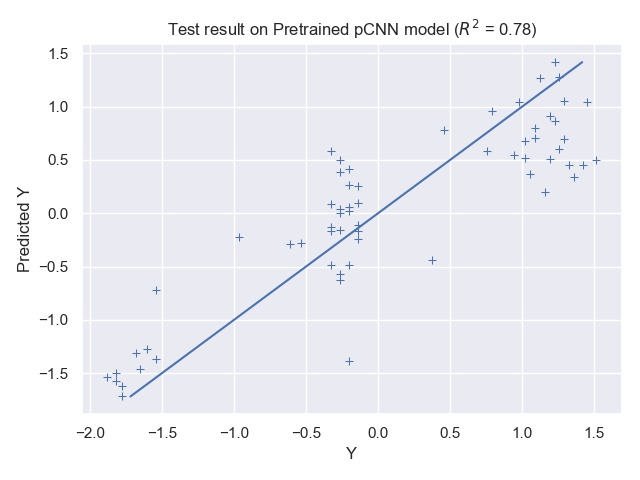
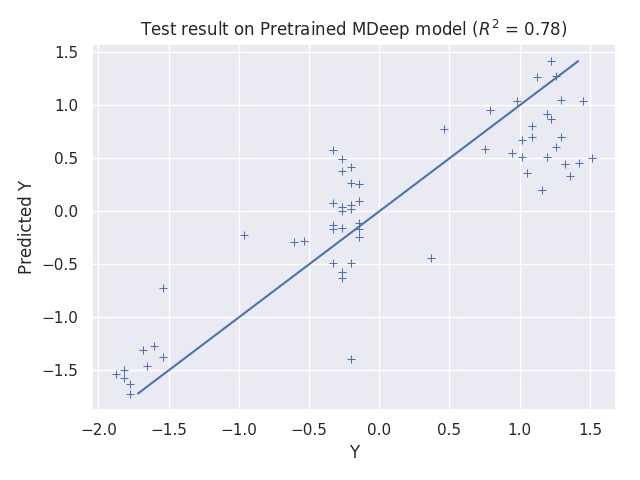
update MDeep and README

diff --git a/src/continous.py b/src/continous.py
@@ -107,7 +107,7 @@ def eval(x_test, y_test, args):
         plt.plot(x_line, x_line)
         plt.xlabel('Y')
         plt.ylabel(r'Predicted Y')
-        plt.title(r'Test result on Pretrained pCNN model ($R^2$ = {:.02f})'.format(cor_test[0, 1] ** 2))
+        plt.title(r'Test result on Pretrained MDeep model ($R^2$ = {:.02f})'.format(cor_test[0, 1] ** 2))
         plt.tight_layout()
         ax.figure.savefig( args.result_dir + "/result.jpg")
         plt.show()

diff --git a/src/MDeep.py b/src/MDeep.py
@@ -158,6 +158,6 @@ def parse_arguments(parser):
 
 if __name__ == '__main__':
     parser = argparse.ArgumentParser(
-        description='A Phylogeny-regularized Convolutional NeuralNetwork for Microbiome-based Predictions')
+        description=' Microbiome based deep learning method for predicting continuous and binary outcome')
     args = parse_arguments(parser)
     main(args)

diff --git a/README.md b/README.md
@@ -3,7 +3,7 @@ We develop a deep learning prediction method "Microbimoe Based Deep Learning Met
 
 <center>
 
-<div align=center><img width="600" height="400" src="https://raw.githubusercontent.com/alfredyewang/pCNN/master/docs/Architecture.jpg"/></div>
+<div align=center><img width="600" height="400" src="https://raw.githubusercontent.com/alfredyewang/MDeep/master/docs/Architecture.jpg"/></div>
 </center>  
 
 
@@ -20,7 +20,7 @@ MDeep is implemented by TensorFlow. Both CPU and GPU mode are supported. Please 
 - seaborn >=0.9.0
 - matplotlib >=3.1.0
 
-Download pCNN:
+Download MDeep:
 ```
 git clone https://github.com/alfredyewang/MDeep
 ```
@@ -32,7 +32,7 @@ pip3 install -r requirements.txt
 You can see the hyper paramenters for MDeep by help option:
 
 ```
-usage: pCNN.py [-h] [--train] [--evaluation] [--test]
+usage: MDeep.py [-h] [--train] [--evaluation] [--test]
                [--data_dir <data_directory>] [--test_file TEST_FILE]
                [--correlation_file CORRELATION_FILE] [--model_dir MODEL_DIR]
                [--result_dir <data_directory>] [--outcome_type OUTCOME_TYPE]
@@ -89,13 +89,13 @@ optional arguments:
 
 The USA Human Gut Microbiome data contains 308 samples with 1087 OTUs. For details of description, please check our paper.
 ```
-python3 src/pCNN.py --train --data_dir data/USA --model_dir model --outcome_type continous --batch_size 16 --max_epoch 2000 --learning_rate 5e-3 --dropout_rate 0.5 --window_size 8 8 8 --kernel_size 64 64 32 --strides 4 4 4
+python3 src/MDeep.py --train --data_dir data/USA --model_dir model --outcome_type continous --batch_size 16 --max_epoch 2000 --learning_rate 5e-3 --dropout_rate 0.5 --window_size 8 8 8 --kernel_size 64 64 32 --strides 4 4 4
 ```
 After training, the well-trained model will be saved to model directory.
 #### Evaluate the well-trained model
 
 ```
-python3 src/pCNN.py --evaluation --data_dir data/USA --result_dir result/USA --model_dir model --outcome_type continous --batch_size 16 --max_epoch 2000 --learning_rate 5e-3 --dropout_rate 0.5 --window_size 8 8 8 --kernel_size 64 64 32 --strides 4 4 4
+python3 src/MDeep.py --evaluation --data_dir data/USA --result_dir result/USA --model_dir model --outcome_type continous --batch_size 16 --max_epoch 2000 --learning_rate 5e-3 --dropout_rate 0.5 --window_size 8 8 8 --kernel_size 64 64 32 --strides 4 4 4
 ```
 The program will evaluate the well-trained model, draw a R-squared figure, and save it to result directory.
 
@@ -107,7 +107,7 @@ The program will evaluate the well-trained model, draw a R-squared figure, and s
 #### Test the model with unlabelled data
 
 ```
-python3 src/pCNN.py --test --test_file data/USA/X_test.npy  --correlation_file data/USA/c.npy --result_dir result/USA --model_dir model --outcome_type continous --batch_size 16 --max_epoch 2000 --learning_rate 5e-3 --dropout_rate 0.5 --window_size 8 8 8 --kernel_size 64 64 32 --strides 4 4 4
+python3 src/MDeep.py --test --test_file data/USA/X_test.npy  --correlation_file data/USA/c.npy --result_dir result/USA --model_dir model --outcome_type continous --batch_size 16 --max_epoch 2000 --learning_rate 5e-3 --dropout_rate 0.5 --window_size 8 8 8 --kernel_size 64 64 32 --strides 4 4 4
 ```
 The program will take the unlabelled test file and save the prediction result to result directory.
 
@@ -116,20 +116,20 @@ The program will take the unlabelled test file and save the prediction result to
 #### Train the model
 The USA Human Gut Microbiome data contains 995 samples with 2291 OTUs.
 ```
-python3 src/pCNN.py --train --data_dir data/Malawiantwin_pairs --model_dir model --outcome_type binary --batch_size 32 --max_epoch 500 --learning_rate 1e-4 --dropout_rate 0.5 --window_size 128 4 --kernel_size 32 32 --strides 64 2
+python3 src/MDeep.py --train --data_dir data/Malawiantwin_pairs --model_dir model --outcome_type binary --batch_size 32 --max_epoch 500 --learning_rate 1e-4 --dropout_rate 0.5 --window_size 128 4 --kernel_size 32 32 --strides 64 2
 ```
 #### Evaluate the well-trained model
 
 ```
-python3 src/pCNN.py --evaluation --data_dir data/Malawiantwin_pairs --result_dir result/Malawiantwin_pairs --model_dir model --outcome_type binary --batch_size 32 --max_epoch 500 --learning_rate 1e-4 --dropout_rate 0.5 --window_size 128 4 --kernel_size 32 32 --strides 64 2
+python3 src/MDeep.py --evaluation --data_dir data/Malawiantwin_pairs --result_dir result/Malawiantwin_pairs --model_dir model --outcome_type binary --batch_size 32 --max_epoch 500 --learning_rate 1e-4 --dropout_rate 0.5 --window_size 128 4 --kernel_size 32 32 --strides 64 2
 ```
 The program will draw a ROC figure and save it to result directory.
 
 <center>
-<div align=center><img width="400" height="300" src="https://github.com/alfredyewang/pCNN/blob/master/result/Malawiantwin_pairs/result.jpg"/></div>
+<div align=center><img width="400" height="300" src="https://github.com/alfredyewang/MDeep/blob/master/result/Malawiantwin_pairs/result.jpg"/></div>
 </center>  
 
 #### Test the model with unlabelled data
 ```
-python3 src/pCNN.py --test --test_file data/Malawiantwin_pairs/X_test.npy --correlation_file data/Malawiantwin_pairs/c.npy --result_dir result/Malawiantwin_pairs --model_dir model --outcome_type binary --batch_size 32 --max_epoch 500 --learning_rate 1e-4 --dropout_rate 0.5 --window_size 128 4 --kernel_size 32 32 --strides 64 2
+python3 src/MDeep.py --test --test_file data/Malawiantwin_pairs/X_test.npy --correlation_file data/Malawiantwin_pairs/c.npy --result_dir result/Malawiantwin_pairs --model_dir model --outcome_type binary --batch_size 32 --max_epoch 500 --learning_rate 1e-4 --dropout_rate 0.5 --window_size 128 4 --kernel_size 32 32 --strides 64 2
 ```
